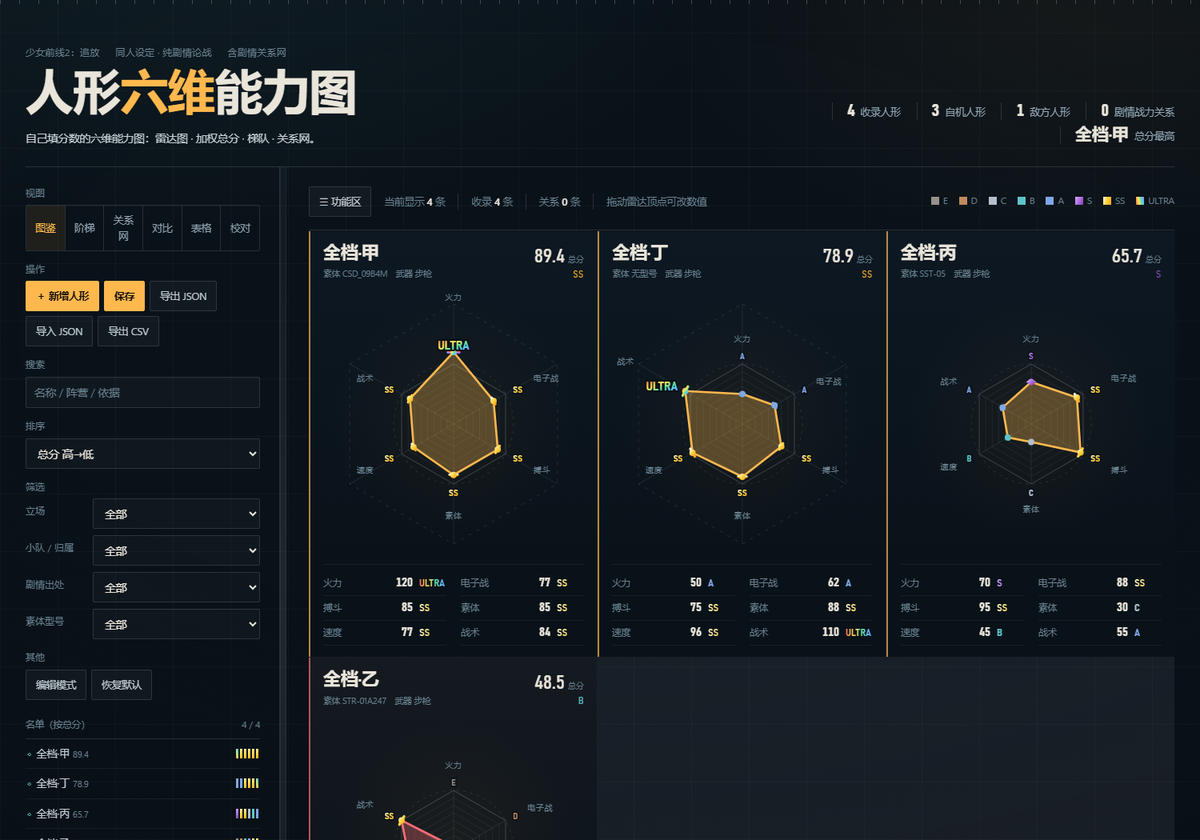
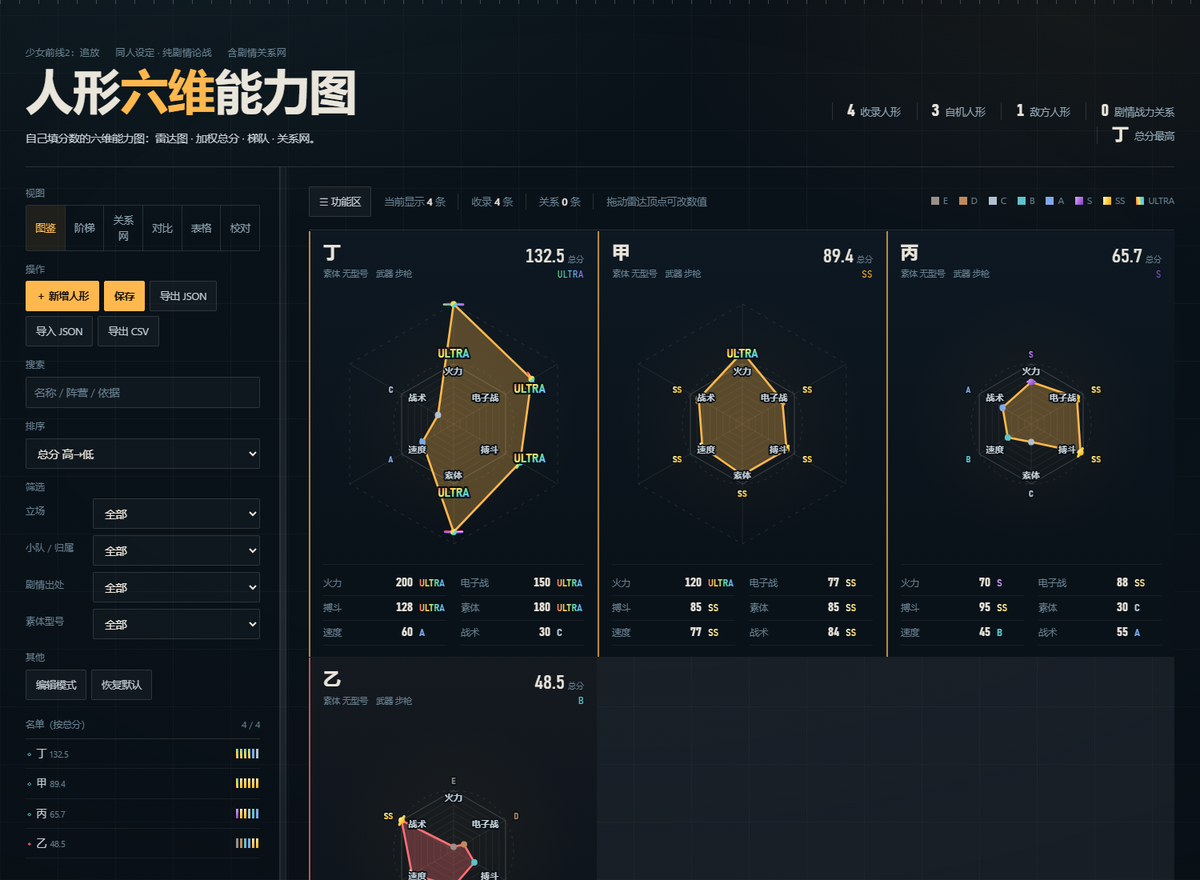
fix(radar): 维度名收进 100 环内沿、档位字固定在外沿；文字加深色描边；去掉顶点提示环
- 两条固定环带（不随数值移动，结构上不可能压字）：NAME_R=R-9 朝圆心排，GRADE_R=R+11 朝外排
- 维度名提亮到 --paper-2 + paint-order 暗色描边 3.2px；顶点数值补上 .fval 样式（同样描边）
- 去掉拖动顶点的 hover 提示环（也是用户看到的那条「圈里的横线」），只留 cursor:grab
- 实测：六条轴填 128–200 极端值时零重叠，维度名全部落在 100 环内
- 更新 README 预览图与进展摘要

diff --git a/少前2_人形六维能力图.html b/少前2_人形六维能力图.html
@@ -137,8 +137,9 @@ svg.radar{display:block;width:100%;height:auto;overflow:visible}
 .ring.halo{stroke:rgba(226,232,235,.11);stroke-dasharray:4 6}
 .axis{stroke:rgba(226,232,235,.085);stroke-width:1}
 .node{fill:rgba(226,232,235,.22)}
-.albl{font:400 9.5px var(--txt);fill:var(--paper-faint);letter-spacing:.03em}
+.albl{font:600 10px var(--txt);fill:var(--paper-2);letter-spacing:.03em;paint-order:stroke;stroke:var(--ink-900);stroke-width:3.2px;stroke-linejoin:round}
 .agl.big{font-size:14.5px;stroke-width:3.8px}
+.fval{fill:var(--paper-2);font:600 10.5px var(--dsp);font-variant-numeric:tabular-nums;paint-order:stroke;stroke:var(--ink-900);stroke-width:3px;stroke-linejoin:round}
 .agl{font:700 10.5px var(--dsp);letter-spacing:.01em;paint-order:stroke;stroke:var(--ink-900);stroke-width:3px;stroke-linejoin:round}
 .evidence{font-size:11.5px;line-height:1.55;color:var(--paper-dim);border-left:1px solid var(--line-hard);padding-left:9px}
 .ledger{display:grid;grid-template-columns:1fr 1fr;gap:0 18px;border-top:1px solid var(--line-soft);padding-top:8px}
@@ -291,7 +292,6 @@ svg.net{display:block;width:100%;height:auto}
 .btn.big{padding:10px 20px;font-size:14px}
 /* ===== 拖动改数值 / 手动保存 ===== */
 .dragv{cursor:grab;pointer-events:all}
-.dragv:hover{fill:rgba(229,161,60,.13);stroke:rgba(229,161,60,.6);stroke-width:1.5}
 .dragv:active{cursor:grabbing}
 .plate.noanim{animation:none}
 #btnSave.dirty{border-color:var(--amber);color:var(--amber)}
@@ -549,9 +549,11 @@ function radar(series, size, opt){
   var gpre = 'rg' + (++radarSeq) + '_';
   parts.push(gradDefs(gpre));
   function rOf(v){ return R * Math.max(0, Math.min(MAXV, v)) / 100; }   // >100 即画到 100 环外
-  var W = { E:9,D:9,C:9,B:9,A:9,S:9,SS:17,ULTRA:48 };   // 各档字母占位宽（ULTRA 字号大，最宽）
-  /* 档位字母的半径：贴着该维顶点，但**保证不越到维度名的地盘**（名字在 cx-4 外沿）*/
-  function letterRadius(v, grade){ var w = W[grade] || 9; return Math.min(Math.max(R, v) + 10, cx - 4 - w - 8); }
+  /* 两条固定环带，位置不随数值移动——这样标签之间永远不可能打架：
+       ① 维度名贴 100 环**内**沿（朝圆心一侧排）② 档位字贴 100 环**外**沿（朝外排）*/
+  var NAME_R = R - 9, GRADE_R = R + 11;
+  function inwardAnchor(x){ return Math.abs(x - cx) < 1.5 ? 'middle' : (x > cx ? 'end' : 'start'); }
+  function outwardAnchor(x){ return Math.abs(x - cx) < 1.5 ? 'middle' : (x > cx ? 'start' : 'end'); }
   /* 常规网格只到 100：默认情况下 100 环就是图的顶点 */
   for (var k=1;k<=8;k++){
     var rr = R*k/8, pts = [];
@@ -590,15 +592,15 @@ function radar(series, size, opt){
       if (series.length > 1 && opt.gradesAll === true){
         for (var j2=0;j2<6;j2++){
           var Lg = se.letters ? se.letters[j2] : letterOf(se.vals[j2]);
-          var plg = polar(cx,cy,letterRadius(rOf(se.vals[j2]), Lg),j2);
-          var alg = Math.abs(plg[0]-cx) < 1.5 ? 'middle' : (plg[0] > cx ? 'start' : 'end');
+          var plg = polar(cx,cy,GRADE_R,j2);
+          var alg = outwardAnchor(plg[0]);
           parts.push('<text class="agl'+(Lg==='ULTRA'?' big':'')+'" x="'+f1(plg[0])+'" y="'+f1(plg[1]+4)+'" text-anchor="'+alg+'" fill="'+gradeFill(Lg, gpre)+'">'+Lg+'</text>');
         }
       }
     }
     if (opt.values){
       for (var m=0;m<6;m++){
-        var lr = Math.min(vt[m][1] + 13 + si*11, cx - 4 - 26), lp = polar(cx,cy,lr,m);
+        var lr = Math.min(vt[m][1] + 13 + si*11, R - 16), lp = polar(cx,cy,lr,m);
         var anv = Math.abs(lp[0]-cx) < 1.5 ? 'middle' : (lp[0] > cx ? 'start' : 'end');
         parts.push('<text class="fval" x="'+f1(lp[0])+'" y="'+f1(lp[1]+3.5)+'" text-anchor="'+anv+'">'+se.vals[m]+'</text>');
       }
@@ -618,15 +620,12 @@ function radar(series, size, opt){
       var wid = 0;
       if (multi) for (var q=0;q<series.length;q++){ var lq = series[q].letters ? series[q].letters[i] : letterOf(series[q].vals[i]); wid = Math.max(wid, W[lq]||9); }
       /* 档位字母贴着该维顶点（数值 >100 时跟着出了 100 环），轴名再往外让开 */
-      var vR = series[0] ? rOf(series[0].vals[i]) : R;
-      var letterR = lg ? letterRadius(vR, lg) : Math.min(Math.max(R, vR) + 10, cx - 4 - wid - 8);
-      var lr = Math.min(letterR + (lg ? (W[lg]||9) + 10 : (multi ? wid + 10 : 0)), cx - 4);
-      var pn = polar(cx,cy,lr,i);
-      var an = Math.abs(pn[0]-cx) < 1.5 ? 'middle' : (pn[0] > cx ? 'start' : 'end');
+      var pn = polar(cx,cy,NAME_R,i);            /* 维度名：100 环内沿，朝圆心排 */
+      var an = inwardAnchor(pn[0]);
       parts.push('<text class="albl" x="'+f1(pn[0])+'" y="'+f1(pn[1]+3)+'" text-anchor="'+an+'">'+DSHORT[i]+'</text>');
       if (lg){
-        var pl = polar(cx,cy,letterR,i);
-        var al = Math.abs(pl[0]-cx) < 1.5 ? 'middle' : (pl[0] > cx ? 'start' : 'end');
+        var pl = polar(cx,cy,GRADE_R,i);         /* 档位字：100 环外沿，朝外排 */
+        var al = outwardAnchor(pl[0]);
         parts.push('<text class="agl'+(lg==='ULTRA'?' big':'')+'" x="'+f1(pl[0])+'" y="'+f1(pl[1]+4)+'" text-anchor="'+al+'" fill="'+gradeFill(lg, gpre)+'">'+lg+'</text>');
       }
     }

diff --git a/_work/进展摘要.md b/_work/进展摘要.md
@@ -41,7 +41,8 @@
 - **素体＝型号的纯函数**：`frameBaseline` 里型号→分值，同型号必须同分（自检 11）。
 - **拖动只在单序列雷达上**（普通卡片与编辑弹窗）；双形态卡是两条折线，不参与拖动。
 - **页面内置数据不会自动跟着 JSON 变**，改完要手动同步（自检 02–04 盯着）。
-- **雷达标签不许互相压**：档位字母半径按「给维度名留位」钳制（`letterRadius()`，含 ULTRA 宽字），实测六维全 200 时最小间距 6px、零重叠；卡片不做装饰（去掉切角/顶部横线/角折）。
+- **雷达标签固定两条环带**（位置不随数值移动，结构上不可能压字）：维度名贴 100 环**内**沿、朝圆心排；档位字贴 100 环**外**沿、朝外排；两者都加深色描边（`paint-order:stroke`），压在色块上也读得清。实测极端值六条轴零重叠。
+- **卡片不做装饰**：去掉切角／顶部横线／右上角折，也去掉了拖动顶点的 hover 提示环（只留 cursor:grab）。
 - **页面不放说明文案**：口径、沿革、依据只写在 JSON 与 `_work/剧情证据与评分依据.md` 里，界面保持干净。
 
 ## 4. 遗留
